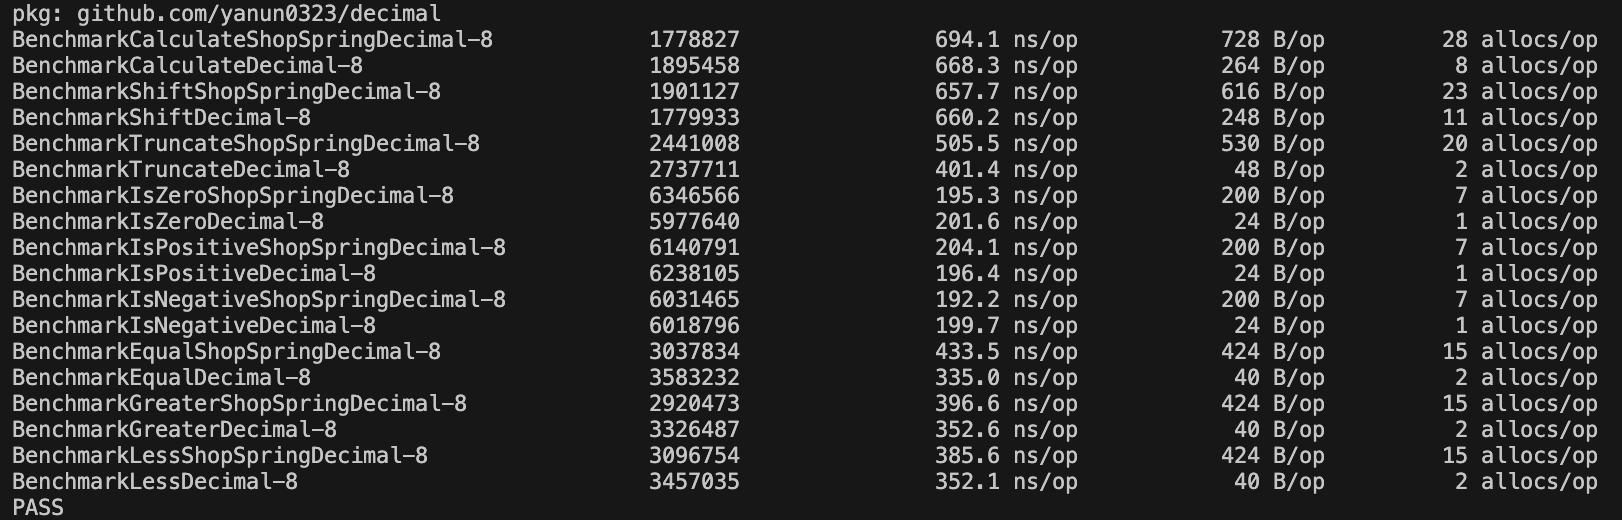
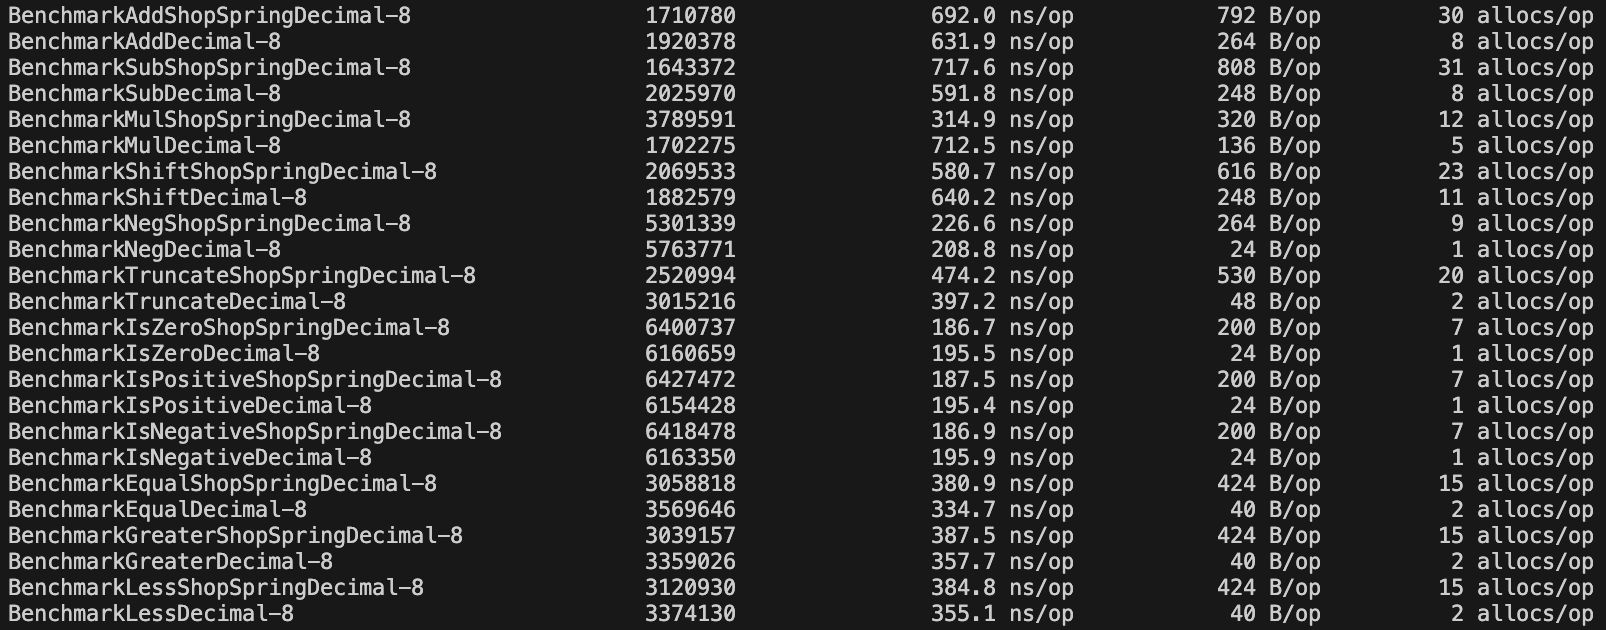
update readme

diff --git a/decimal_bench_test.go b/decimal_bench_test.go
@@ -20,6 +20,54 @@ const (
 // 	}
 // }
 
+// Add
+
+func BenchmarkAddShopSpringDecimal(b *testing.B) {
+	for i := 0; i < b.N; i++ {
+		b, _ := decimal.NewFromString(_operatorBase)
+		a, _ := decimal.NewFromString(_operatorAddition)
+		result := b.Add(a).Add(b)
+		ss := result.String()
+		_ = ss
+
+		b.Mul(a)
+
+	}
+}
+
+func BenchmarkAddDecimal(b *testing.B) {
+	for i := 0; i < b.N; i++ {
+		b, _ := New(_operatorBase)
+		a, _ := New(_operatorAddition)
+		result := b.Add(a).Add(a)
+		_ = result
+	}
+}
+
+// Sub
+
+func BenchmarkSubShopSpringDecimal(b *testing.B) {
+	for i := 0; i < b.N; i++ {
+		b, _ := decimal.NewFromString(_operatorBase)
+		a, _ := decimal.NewFromString(_operatorAddition)
+		result := b.Sub(a).Sub(b)
+		ss := result.String()
+		_ = ss
+
+		b.Mul(a)
+
+	}
+}
+
+func BenchmarkSubDecimal(b *testing.B) {
+	for i := 0; i < b.N; i++ {
+		b, _ := New(_operatorBase)
+		a, _ := New(_operatorAddition)
+		result := b.Sub(a).Sub(a)
+		_ = result
+	}
+}
+
 // Mul
 
 func BenchmarkMulShopSpringDecimal(b *testing.B) {
@@ -35,30 +83,6 @@ func BenchmarkMulDecimal(b *testing.B) {
 		d1, _ := New(_operatorBase)
 		d2, _ := New(_operatorAddition)
 		_ = d1.Mul(d2)
-	}
-}
-
-// Calculate
-
-func BenchmarkCalculateShopSpringDecimal(b *testing.B) {
-	for i := 0; i < b.N; i++ {
-		b, _ := decimal.NewFromString(_operatorBase)
-		a, _ := decimal.NewFromString(_operatorAddition)
-		result := b.Add(a).Sub(b)
-		ss := result.String()
-		_ = ss
-
-		b.Mul(a)
-
-	}
-}
-
-func BenchmarkCalculateDecimal(b *testing.B) {
-	for i := 0; i < b.N; i++ {
-		b, _ := New(_operatorBase)
-		a, _ := New(_operatorAddition)
-		result := b.Add(a).Sub(a)
-		_ = result
 	}
 }
 
@@ -83,6 +107,22 @@ func BenchmarkShiftDecimal(b *testing.B) {
 		d2, _ := New(_operatorBase)
 		s2 := d2.Shift(-8)
 		_ = s2
+	}
+}
+
+// Neg
+
+func BenchmarkNegShopSpringDecimal(b *testing.B) {
+	for i := 0; i < b.N; i++ {
+		d1, _ := decimal.NewFromString(_operatorBase)
+		_ = d1.Neg()
+	}
+}
+
+func BenchmarkNegDecimal(b *testing.B) {
+	for i := 0; i < b.N; i++ {
+		d1, _ := New(_operatorBase)
+		_ = d1.Neg()
 	}
 }
 

diff --git a/README.md b/README.md
@@ -21,6 +21,7 @@ import "github.com/yanun0323/decimal"
 - Addition
 - Subtraction
 - Multiplication
+- Negative
 - Truncate
 - Shift
 - Compare like equal, greater, less, greater or equal, less or equal
@@ -51,6 +52,9 @@ println(mul)            // 5000032750.02775
 shift := d1.Shift(-2).String()
 println(shift)          // 1000.00555
 
+neg := d1.Neg().String()
+println(neg)            // -150000.605
+
 truncate := d1.Truncate(1).String()
 println(truncate)       // 100000.5
 
@@ -73,6 +77,7 @@ result := d1.Sub(d2).Shift(-5).Add(d1).Truncate(3).String()
 ## Benchmark
 Compare to [github.com/shopspring/decimal](https://github.com/shopspring/decimal)
 > CPU usage almost same or less than `shopspring/decimal`
+> (except multiplication)
 >
 > Memory usage less than half of `shopspring/decimal`
 
